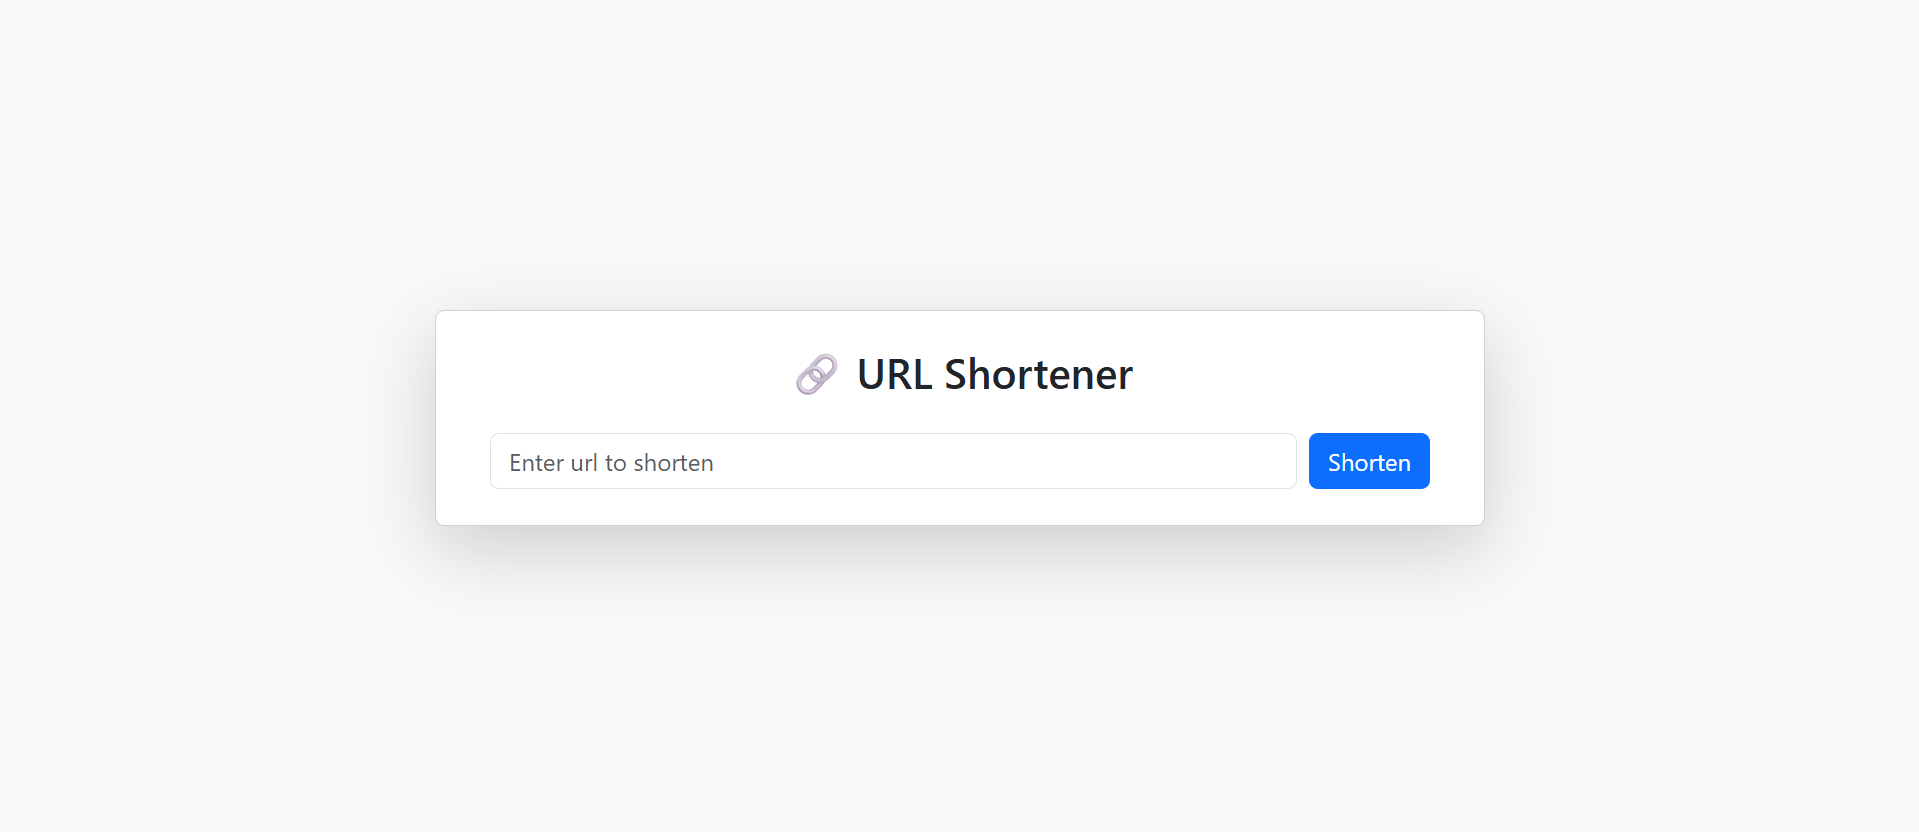
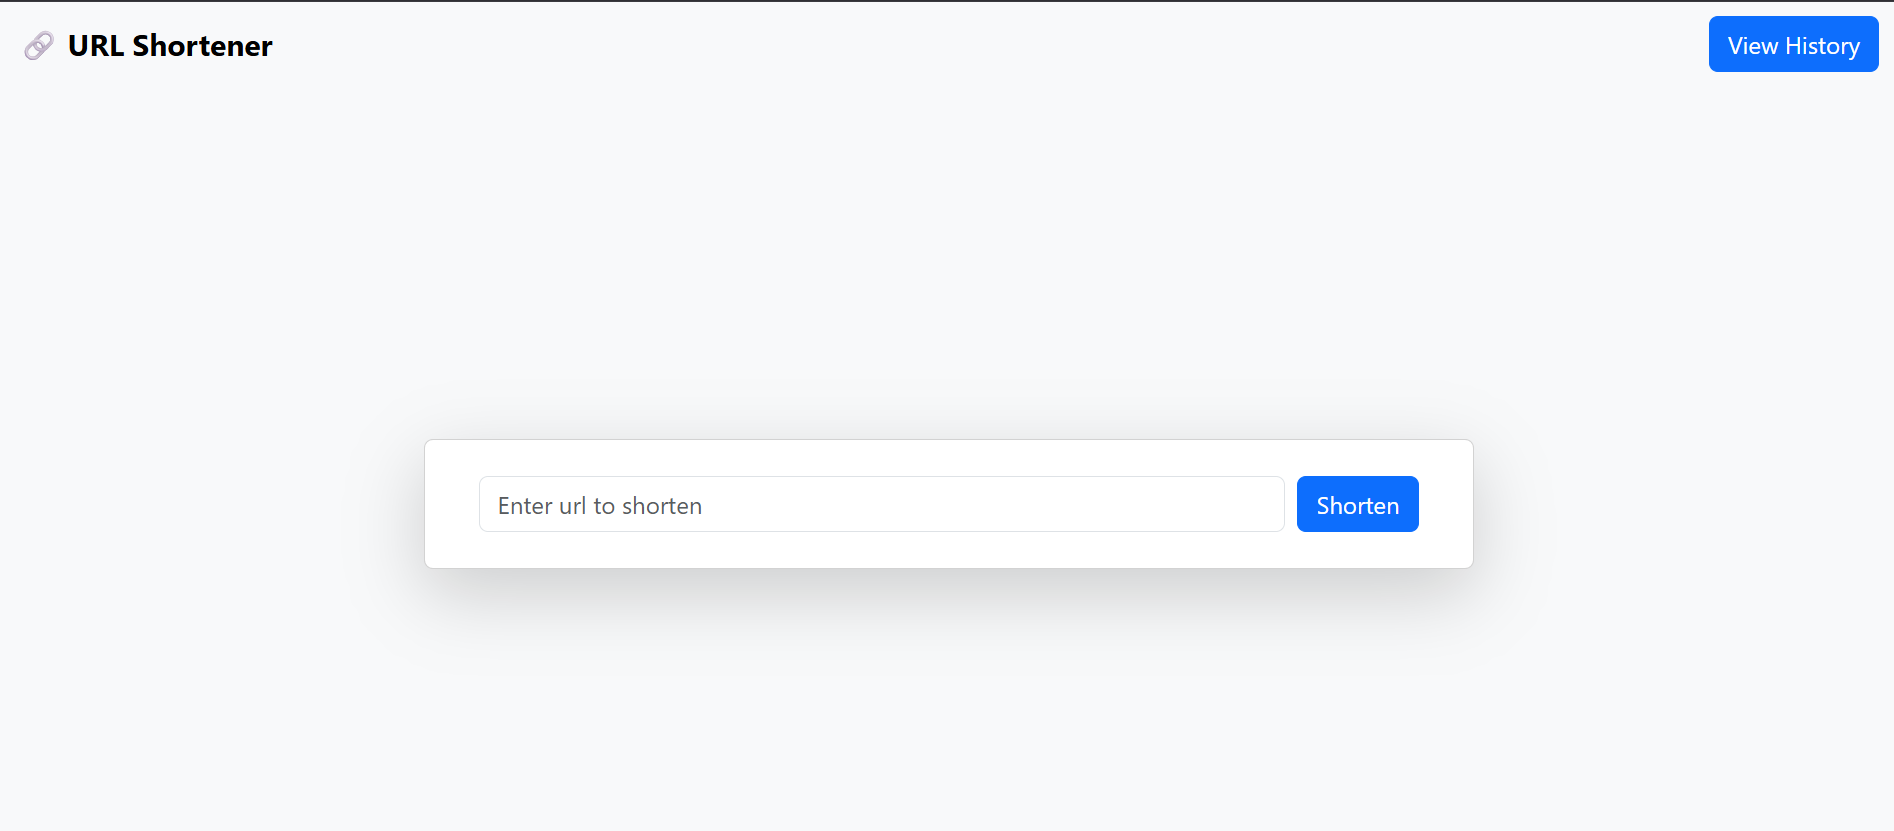
Added session based history and database handling

diff --git a/templates/index.html b/templates/index.html
@@ -8,15 +8,26 @@
 </head>
 <body class="bg-light">
     
+    <nav class="navbar bg-body-tertiary">
+    <div class="container-fluid">
+        <a class="navbar-brand fw-bold">🔗 URL Shortener</a>
+        <a href="/history" class="btn btn-primary"> View History </a>
+    </div>
+
+</nav>
     <div class="container d-flex justify-content-center align-items-center vh-100">
         <div class="card shadow-lg p-4" style="width: 100%; max-width: 700px;">
-            <h3 class="text-center mb-4">🔗 URL Shortener</h3>
             <div class="container-fluid justify-content-center">
             <form class="d-flex" method="POST">
             <input class="form-control me-2" type="text" name ="url" placeholder="Enter url to shorten" required>
             <button class="btn btn-primary" type="submit">Shorten</button>
             </form>
             </div>
+            {% if error %}
+        <div class="alert alert-danger mt-3 text-center">
+        {{ error }}
+        </div>
+            {% endif %}
           {% if short_url %}
         <div class="container alert alert-success mt-3 text-center">
             <p class="b-1 fw-semibold">Short URL:</p>

diff --git a/templates/history.html b/templates/history.html
@@ -1,0 +1,32 @@
+<!DOCTYPE html>
+<html>
+<head>
+    <title>History</title>
+</head>
+<body>
+
+<h2>URL History</h2>
+
+<table border="1" cellpadding="8">
+    <tr>
+        <th>Short Code</th>
+        <th>Original URL</th>
+        <th>Clicks</th>
+        <th>Created At</th>
+    </tr>
+
+    {% for row in rows %}
+    <tr>
+        <td>
+            <a href="/{{ row[0] }}">{{ row[0] }}</a>
+        </td>
+        <td>{{ row[1] }}</td>
+        <td>{{ row[2] }}</td>
+        <td>{{ row[3] }}</td>
+    </tr>
+    {% endfor %}
+
+</table>
+
+</body>
+</html>

diff --git a/app.py b/app.py
@@ -1,31 +1,111 @@
 from flask import Flask, render_template, redirect, url_for, request
 import random
 import string
+from datetime import datetime, timezone
+import sqlite3
+from flask import session
 
 app = Flask(__name__)
 
-url_map = {}
+def init_db():
+    conn = sqlite3.connect("urls.db")
+    cur = conn.cursor()
+
+    cur.execute("""
+    CREATE TABLE IF NOT EXISTS urls (
+        id INTEGER PRIMARY KEY AUTOINCREMENT,
+        code TEXT UNIQUE,
+        original_url TEXT,
+        clicks INTEGER DEFAULT 0,
+        created_at TEXT
+    )
+    """)
+
+    conn.commit()
+    conn.close()
+
+init_db()
+
+app.secret_key = "dev_secret_key"
 
 @app.route('/', methods=["GET", "POST"])
 def home():
-    short_url = None
+    short_url = session.pop('short_url', None)
+
     if request.method == "POST":
         url = request.form["url"]
-        print("url :", url)
+
         if not url.startswith("http://") and not url.startswith('https://'):
-            return "Invalid URL"
-        # return f"You entered: {url}"
-    
-        newurl= generate_short_code()
-        url_map[newurl] = url
-        short_url = request.host_url  + newurl
+            return render_template("index.html", error="Invalid URL")
+
+        newurl = generate_unique_code()
+
+        conn = sqlite3.connect("urls.db")
+        cur = conn.cursor()
+
+        cur.execute(
+            "INSERT INTO urls (code, original_url, created_at) VALUES (?, ?, ?)",
+            (newurl, url, datetime.now(timezone.utc).isoformat())
+        )
+
+        conn.commit()
+        conn.close()
+
+        session['short_url'] = request.host_url + newurl
+        return redirect(url_for('home'))
+
     return render_template('index.html', short_url=short_url)
+
+def generate_unique_code():
+    while True:
+        code = generate_short_code()
+        conn = sqlite3.connect("urls.db")
+        cur = conn.cursor()
+
+        cur.execute("SELECT 1 FROM urls WHERE code=?", (code,))
+        exists = cur.fetchone()
+
+        conn.close()
+
+        if not exists:
+            return code
+@app.route('/history')
+def history():
+    conn = sqlite3.connect("urls.db")
+    cur = conn.cursor()
+
+    cur.execute("""
+        SELECT code, original_url, clicks, created_at
+        FROM urls
+        ORDER BY id DESC
+    """)
+
+    rows = cur.fetchall()
+    conn.close()
+
+    return render_template("history.html", rows=rows)
 
 @app.route('/<newurl>')
 def redirect_url(newurl):
-    original_url = url_map.get(newurl)
-    if original_url:
+    conn = sqlite3.connect("urls.db")
+    cur = conn.cursor()
+
+    cur.execute("SELECT original_url, clicks FROM urls WHERE code=?", (newurl,))
+    row = cur.fetchone()
+
+    if row:
+        original_url, clicks = row
+
+        cur.execute(
+            "UPDATE urls SET clicks=? WHERE code=?",
+            (clicks + 1, newurl)
+        )
+        conn.commit()
+        conn.close()
+
         return redirect(original_url)
+
+    conn.close()
     return "URL not found", 404
 
 def generate_short_code(length=6):
